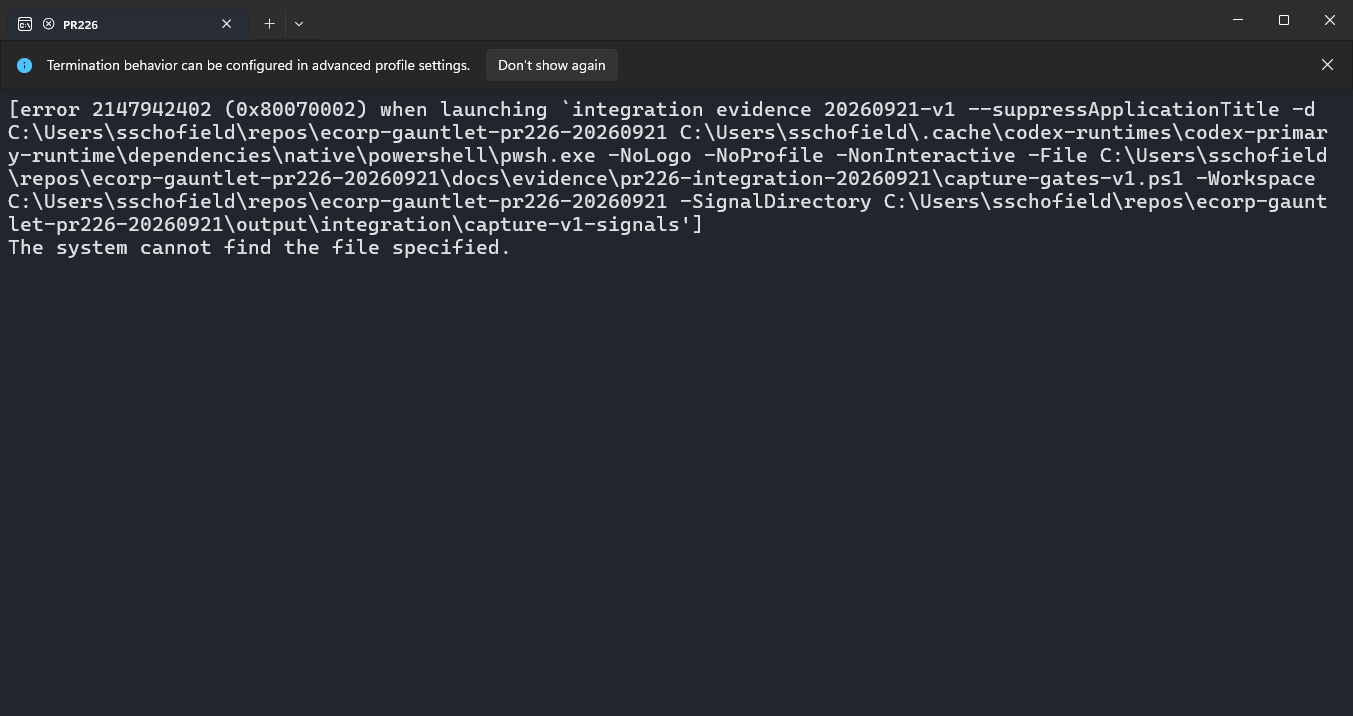
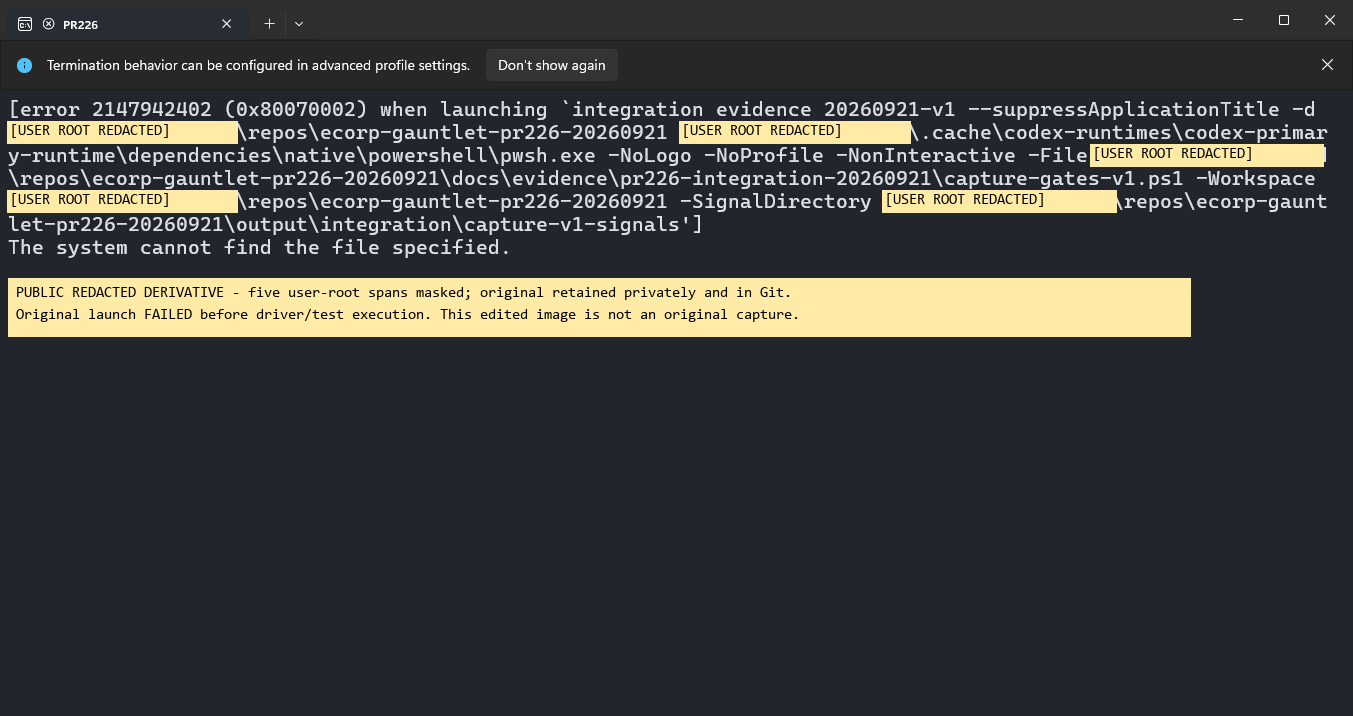
fix(evidence): normalize PR226 public receipts and scan coverage
Preserve historical identities and failed outcomes; label redacted/report images and keep the canary byte contracts unchanged. Refs #225; broader native Factory acceptance remains open.

diff --git a/docs/evidence/pr-226-completion-20260922-r3/saved-correction-results.html b/docs/evidence/pr-226-completion-20260922-r3/saved-correction-results.html
@@ -1,0 +1,57 @@
+<!doctype html>
+<html lang="en"><head><meta charset="utf-8"><meta name="viewport" content="width=device-width"><title>PR226 saved correction results</title>
+<style>
+body{font:16px/1.45 system-ui,sans-serif;color:#172536;background:#fff;margin:28px;max-width:1384px}h1{font-size:28px;margin:8px 0}h2{font-size:19px;margin:0 0 8px}p{margin:8px 0}code{font:13px/1.5 Consolas,monospace;overflow-wrap:anywhere}.cards{display:grid;grid-template-columns:1fr 1fr;gap:16px}section{border:1px solid #8798a8;border-radius:5px;padding:16px}pre{white-space:pre-wrap;font:14px/1.4 Consolas,monospace;background:#f1f4f7;padding:10px;margin:10px 0}.red{color:#9c2222}.green{color:#12623a}.label{font-weight:700;color:#315372}footer{font-size:14px;margin-top:16px}
+</style></head><body>
+<p class="label">SAVED RESULTS REPORT · September 22, 2026 · not a live test or application capture</p>
+<h1>PR #226: retained correction outcomes</h1>
+<p>This view summarizes the existing logs and receipt; opening it runs no tests. Failures remain failures.<br>
+Evidence snapshot: <code>9d79db02c814497f93eed4b8d7c842cb2518d153:docs/evidence/pr-226-completion-20260922-r3/</code></p>
+
+<p>Retained validation context: source head <code>87216fa319e03ce0626805d4f6c530ed6e7f4ad9</code><br>
+Tested staged tree <code>7bdeb42dbda78174e96e54932797681a1fbcafc6</code> · target <code>de12261d045ddfccf790bcfd04a7fa254563d456</code><br>
+These are the packet's existing validation identities, not recovered per-attempt source hashes for the two failed logs.</p>
+<div class="cards">
+<section><h2 class="red">RED — before root/link correction</h2>
+<p>Source: <a href="root-before.log"><code>root-before.log</code></a></p>
+<pre>ℹ tests 6
+ℹ pass 4
+ℹ fail 2
+ℹ skipped 0</pre>
+<p>Original SHA-256 (unchanged historical identity)<br><code>ccf6c61108f0bae83dbbb293790b823d42f1f8dfdeb527032a29458e70792eed</code></p>
+<p>Current public SHA-256<br><code>fd4b4baaee51c851f565c92a94bf438d2bdb7bcfdcfc285aaf3ad8baef391b84</code></p>
+<p>Only two user-root spans normalized; failure text/counts unchanged.<br>Prior public SHA-256<br><code>5ae6bba9d30b410d2bcc0f876c4a9e686063741d4c4dbd4bf506120fafa27c7f</code></p>
+</section>
+<section><h2 class="red">FAIL — intermediate short-path attempt</h2>
+<p>Source: <a href="root-intermediate-failed.log"><code>root-intermediate-failed.log</code></a></p>
+<pre>ℹ tests 6
+ℹ pass 4
+ℹ fail 2
+ℹ skipped 0</pre>
+<p>Original SHA-256 (unchanged historical identity)<br><code>a9ad6fa83e66826ab4b6c889c4a0e00bbdacf5583ff518564376e4db9c8d6666</code></p>
+<p>Current public SHA-256<br><code>a45b90cd9c369d8d875580528f8a5e8b8f65a4ca7f36eb5c710d727cd3572f41</code></p>
+<p>Rejected ordinary Windows short-path spelling. This failed attempt is retained, not relabelled successful.</p>
+</section>
+<section><h2 class="green">GREEN — final six-case scanner suite</h2>
+<p>Source: <a href="root-after.log"><code>root-after.log</code></a></p>
+<pre>ℹ tests 6
+ℹ pass 6
+ℹ fail 0
+ℹ skipped 0</pre>
+<p>Original SHA-256 (unchanged historical identity)<br><code>32abfa0314d1794d21577be7bb94cf426fd0ea09d08ee51856c030a542175463</code></p>
+<p>Current public SHA-256<br><code>7c4f9984131a2dc3c39b98c4e4b3ce3f3fbb6202721e804de4f017fc692a9cb6</code></p>
+<p>Includes root, ancestor, nested and dangling links. This is the existing six-case GREEN, not a new run.</p>
+</section>
+<section><h2 class="green">PASS — saved receipt-reference check</h2>
+<p>Source: <a href="receipt-reference.json"><code>receipt-reference.json</code></a></p>
+<pre>status: passed
+checks: 3
+bound_artifacts: 5</pre>
+<p>Original SHA-256 (unchanged historical identity)<br><code>0906493b7439f718ada17c63bba5b1c075bffa9bd0a8e80488f07026008dad0f</code></p>
+<p>Current public SHA-256<br><code>220f4503c789863fa54089cae7b9b63504d89d08a6db79ad53421bf4297f3ced</code></p>
+<p>Three saved reference checks bind five artifacts in the r2 correction. Full reference digests remain in the linked JSON.</p>
+</section>
+</div><footer>Provenance: <a href="correction-provenance.json">correction-provenance.json</a> and <a href="validation.json">validation.json</a>.
+Original images/logs and prior publications remain retained; the public root-before copy is path-normalized.<br>
+No new development chronology, nine-gate execution, native Factory acceptance, independent review or publication approval is claimed. Issue #225 remains open/unproven.</footer>
+</body></html>

diff --git a/docs/evidence/pr-226-completion-20260922-r3/README.md b/docs/evidence/pr-226-completion-20260922-r3/README.md
@@ -21,3 +21,23 @@ Build provenance: Workspace package artifacts are removed under the task Cargo m
 The focused regression failed before the correction. An intermediate correction rejected the Windows short spelling used by temporary directories; that failed attempt is retained. The final six-case suite passes. `correction-provenance.json` binds all three logs and the receipt-reference check separately. The original r2 receipt is retained under its `prior-attempts/` directory.
 
 Trailing line whitespace and blank lines at EOF are removed from the published logs. This formatting normalization does not alter test-result text; original and published hashes are distinct. The local `.gitattributes` preserves published evidence bytes on checkout.
+
+## September 22, 2026 public-evidence follow-up
+
+Two remaining user-root spans in `root-before.log` are now normalized. Its
+original raw digest and prior public digest/Git pointer remain in
+`correction-provenance.json`; the previous public bytes are also retained in
+private coordinator scratch. Failure text, counts and every other log byte are
+unchanged. The dated September 12 report received only three user-root replacements.
+The existing bounded default scanner now includes this r3 packet.
+
+[saved-correction-results.png](saved-correction-results.png) is an unedited,
+genuine Edge capture of [saved-correction-results.html](saved-correction-results.html):
+the existing root-before RED, intermediate failure, six-case GREEN and
+receipt-reference outcomes, with source pointers and original/current public hashes.
+`correction-provenance.json` binds the HTML/image, actual browser and capture time.
+This is a saved-results view, not new test execution or reconstructed development
+chronology. The original `validation.html`, `validation.png`, `validation.json`
+and all other logs remain unchanged. Their nine-gate receipt describes its
+historical tested tree, not this new scanner/evidence correction. Fresh correction
+checks and combined validation/review belong to the parent before publication.

diff --git a/docs/evidence/pr226-integration-20260921/README.md b/docs/evidence/pr226-integration-20260921/README.md
@@ -148,3 +148,21 @@ archive. Statements above about unchanged logs describe their initial capture,
 before this documented path normalization.
 
 Follow-up normalization on September 22, 2026 also covers the drive-relative Windows HOMEPATH value in eight environment receipts. The normalization manifest preserves original hashes and the previous published hashes. Run `node tools/check_evidence_personal_paths.mjs` from the repository root to scan this packet and pr226-local-validation, including escaped and drive-relative path forms. The historical whole-source self-review still describes its original source snapshot; it was not rerun against current main.
+
+## September 22, 2026 public-image correction
+
+The earlier unchanged-image statements describe the original publication.
+`prior-attempts/capture-launch-v1-failed.png` is now an explicitly labelled
+public redacted derivative, not an original capture: five manually selected
+user-root rectangles and a disclosure label are the only changed pixel regions.
+The launch still failed before driver/test execution. The raw PNG is retained
+privately and at the immutable Git pointer recorded in `terminal-provenance.json`.
+
+`path-normalization-20260922.json`, `package-sha256.json`, capture receipts and
+all original identity records remain historical, not mutable current-file oracles.
+Their original image and README hashes are not hashes of these current copies.
+`terminal-provenance.json` separately binds the current image and this README;
+its correction also pins the unchanged historical normalization manifest.
+The default text scan now includes the r3 completion packet; it is not OCR or
+proof of pixel privacy. The derivative was manually inspected. Scoped
+`cr-at-eol` attributes recognize intentional CRLF without waiving other whitespace.

diff --git a/docs/evidence/2026-09-12-pr226-exact-git-bytes.md b/docs/evidence/2026-09-12-pr226-exact-git-bytes.md
@@ -15,7 +15,7 @@ The initial worker's read-only GitHub checks against `All-The-Vibes/ecorp` confi
   changes that stack nor claims to have rerun those checks.
 
 The assigned worktree is
-`C:\Users\shyamsridhar\.codex\worktrees\ecorp-pr226-ready-20260911`,
+`C:\Users\<original-user>\.codex\worktrees\ecorp-pr226-ready-20260911`,
 branch `codex/pr226-merge-ready`. That initial worker performed no commit,
 push, PR mutation, service, container, browser, database, or provider operation.
 
@@ -135,7 +135,7 @@ No Cargo, SQLx, web build/lint, hosted rerun, or full-stack validation was run.
 
 The only historical filesystem root inspected for this audit was:
 
-`C:\Users\shyamsridhar\.codex\dogfood\issue224-planned-attempt-policy-20260910\pr226-review-20260910T225936768`
+`C:\Users\<original-user>\.codex\dogfood\issue224-planned-attempt-policy-20260910\pr226-review-20260910T225936768`
 
 It contains nine files: `byte-review.json`, `result.json`,
 `github-review.json`, `review-body.md`, `stdout.log`, empty `stderr.log`, and
@@ -171,7 +171,7 @@ PR #226.
 
 New evidence root:
 
-`C:\Users\shyamsridhar\.codex\dogfood\merge-drain-20260911\pr226-byte-repair-20260911T215048171`
+`C:\Users\<original-user>\.codex\dogfood\merge-drain-20260911\pr226-byte-repair-20260911T215048171`
 
 - `github-before.json`: live issue/PR/review snapshot with pinned identities.
 - `published-raw.json` and `published-raw/`: freshly downloaded old Git blobs.
